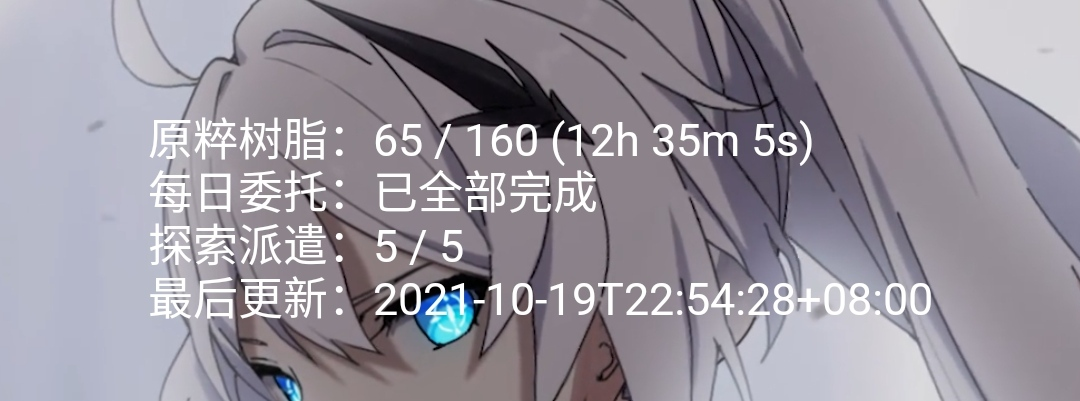
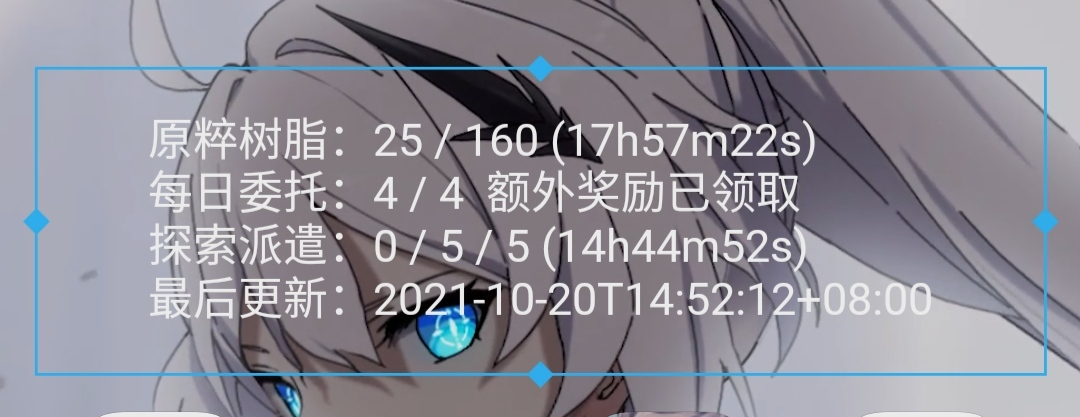
typo 和 更新纯文本部件预览图

diff --git a/app.js b/app.js
@@ -89,9 +89,9 @@ function genFormatedResponse(res) {
 	result['task'] = cache['finished_task_num'] + ' / ' + cache['total_task_num'];
 	if (cache['finished_task_num'] == cache['total_task_num'] ){
 		if (cache['is_extra_task_reward_received']) {
-			result['task'] = result['task'] + '  额外奖励已领取';
+			result['task'] = result['task'] + '  (额外奖励已领取)';
 		} else {
-			result['task'] = result['task'] + '  额外奖励未领取';
+			result['task'] = result['task'] + '  (额外奖励未领取)';
 		}
 	}
 	result['expedition'] = cache['finished_expedition_num'] + ' / ' + cache['current_expedition_num'] +  ' / ' + cache['max_expedition_num'];

diff --git a/README.MD b/README.MD
@@ -26,7 +26,8 @@ node app.js
 ## KWGT sample | KWGT 参考代码
 ![Yife_Playte的小部件](./pic/kwgt_yife.jpg)
 [Yife_Playte的小部件](https://github.com/YifePlayte/genshin-dailynote-helper/blob/main/GenshinInfo.kwgt)  
-![TextOnly](./pic/kwgt_text.jpg)
+![TextOnly](./pic/kwgt_text.jpg)  
+***注意：仅包含文字部分 背景请自行设置***  
 纯文本格式:
 ```
 原粹树脂：$wg(your.url/resin, json, .resin)$ 
@@ -62,5 +63,5 @@ Cookie 获取参考
 ## Thanks | 感谢名单
 @Azure99 @2314933036 提供了 `DS` 字段的算法和所用的 `salt`  
 部分源码基于 `jianggaocheng/mihoyo-signin` 项目修改而来  
-@YifePlayte 积极反馈bug 和 设计了好看的kwgt部件
-给予star支持的你
+@YifePlayte 积极反馈bug 和 设计了好看的kwgt部件  
+给予star支持的你  
